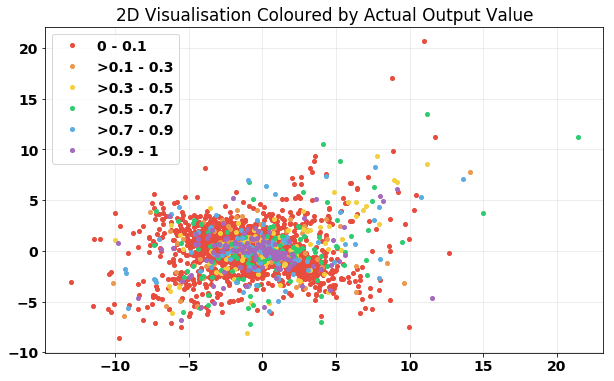
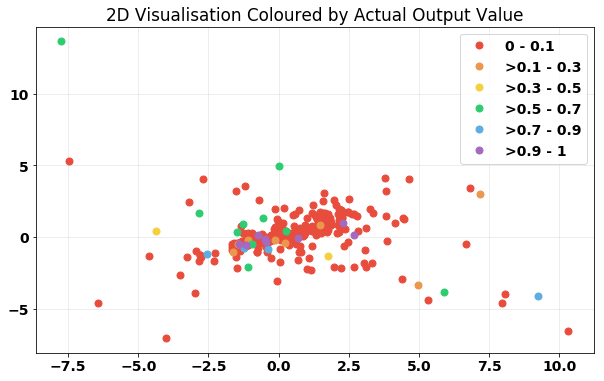
New Code, New Pictures
number of visualised data points = 400

diff --git a/sandbox/champ/visualise/reflect_data.py b/sandbox/champ/visualise/reflect_data.py
@@ -83,9 +83,43 @@ def split_train_test(x,y,tr_nrows):
     ytr = y[0:tr_nrows]
     xtr = x[0:tr_nrows]
 
-    # get the test set
+    # get all of the test set
     yts = y[tr_nrows:all_nrows]
     xts = x[tr_nrows:all_nrows] 
+    
+    return xtr,ytr,xts,yts
+
+## =============================================================================
+## put data into variables Part 2
+## =============================================================================
+    
+# select only some part of testset
+def split_train_testcut(x,y,tr_nrows,n_point):
+    
+    # get the train set
+    ytr = y[0:tr_nrows]
+    xtr = x[0:tr_nrows]
+
+    # get some of the test set
+    yts = y[tr_nrows:tr_nrows+n_point]
+    xts = x[tr_nrows:tr_nrows+n_point] 
+    
+    return xtr,ytr,xts,yts
+
+
+# select only some part of testset
+def split_train_testcutrand(x,y,tr_nrows,n_point):
+        
+    rnd_num = np.random.randint(tr_nrows,all_nrows,n_point)
+    rnd_num = np.ndarray.tolist(rnd_num)
+    
+    # get the train set
+    ytr = y[0:tr_nrows]
+    xtr = x[0:tr_nrows]
+
+    # get some of the test set
+    yts = y.loc[rnd_num]
+    xts = x.loc[rnd_num]
     
     return xtr,ytr,xts,yts
 
@@ -134,6 +168,9 @@ def create_lgbm_model(x_train, y_train):
 # Main Program
 # =============================================================================
 
+# Fixing random state for reproducibility
+np.random.seed(123)
+
 n_output = 24
 
 num_data = read_train_Spre_data()
@@ -150,8 +187,20 @@ all_nrows = len(x)
 tr_percent = 0.9
 tr_nrows = round(all_nrows*tr_percent) - 1
     
+# set number rows for the rest of the dataset
+test_nrows = all_nrows - tr_nrows 
 
-xtr,ytr,xts,yts = split_train_test(x,y,tr_nrows)
+# set number of points to be visualized in the graph 
+n_point = 400
+n_pt = n_point - 1
+
+# =============================================================================
+# # split the data into training set and test set 
+# =============================================================================
+
+#xtr,ytr,xts,yts = split_train_test(x,y,tr_nrows)
+#xtr,ytr,xts,yts = split_train_testcut(x,y,tr_nrows,n_point)
+xtr,ytr,xts,yts = split_train_testcutrand(x,y,tr_nrows,n_point)
 
 ## =============================================================================
 
@@ -180,11 +229,14 @@ clf = create_lgbm_model(xtr,ytr_sel)
 #======Prediction
 yhts_sel = clf.predict(xts)
 
+#======Actual output
+yts_sel = yts.iloc[:,23]
+
 # transform the result to DataFrame
 yhts_sel = pd.DataFrame(yhts_sel)
 
 ## =============================================================================
-## Plot graph
+## Setting to plot graph
 ## =============================================================================
 # bigger font size
 font = {'family' : 'normal',
@@ -193,12 +245,6 @@ font = {'family' : 'normal',
 
 plt.rc('font', **font)
 
-
-# set number of points in the graph 
-#n_point = 1000 
-n_point = all_nrows - tr_nrows 
-n_pt = n_point - 1
-
 ttt = np.arange(0, 1.2, 0.1)
 
 ## =============================================================================
@@ -206,7 +252,7 @@ ttt = np.arange(0, 1.2, 0.1)
 ## =============================================================================
 
 #plt.figure(1)
-#plt.scatter(yts.loc[tr_nrows:tr_nrows+n_pt,123], yhts_sel)
+#plt.scatter(yts_sel, yhts_sel)
 #plt.plot(ttt, ttt, color='green')
 #plt.show()
 
@@ -218,7 +264,7 @@ colors = np.random.rand(n_point)
 
 plt.figure(2)
 fig, ax = plt.subplots(figsize=(10, 6))
-plt.scatter(yts.loc[tr_nrows:tr_nrows+n_pt,123], yhts_sel
+plt.scatter(yts_sel, yhts_sel
             , c=colors, alpha=0.5)
 plt.plot(ttt, ttt, color='green')
 
@@ -316,10 +362,10 @@ thrh_val = [0.1,0.3,0.5,0.7,0.9]
 for i in range(n_point):
     
     ### actual output value
-    val_at = yts.loc[tr_nrows+i,123]
+    val_at = float(yts_sel.iloc[i])
     
     ### predicted output value
-    val_pd = float(yhts_sel.loc[i,:])
+    val_pd = float(yhts_sel.iloc[i])
     
     #cl_val =  val_at  # simple style
     
@@ -342,7 +388,7 @@ colors_pd = np.asarray(colors_pd)
 
 plt.figure(3)
 fig, ax = plt.subplots(figsize=(10, 6))
-plt.scatter(yts.loc[tr_nrows:tr_nrows+n_pt,123], yhts_sel
+plt.scatter(yts_sel, yhts_sel
             , c=colors, alpha=0.5)
 plt.plot(ttt, ttt, color='green')
 
@@ -371,6 +417,7 @@ vecdata = xts
 docvec_data = vecdata - vecdata.mean()
 
 similarities = 1 - cosine_similarity(docvec_data)
+#similarities = euclidean_distances(docvec_data)
 
 # Multidimensional Scaling for Doc2Vec data
 seed = np.random.RandomState(seed=3)
@@ -431,12 +478,13 @@ groups = df.groupby('label')
 # =============================================================================
 # Visualise PCA vectors in 2D scatter plot
 # =============================================================================
+marker_size = 7
 
 plt.figure(5)
 fig, ax = plt.subplots(figsize=(10, 6))
 for indx, group in groups:
     ax.plot( group.x, group.y
-            , marker='o', linestyle='',ms=4 
+            , marker='o', linestyle='',ms=marker_size 
             , color=col_opt_val[indx]
             , label=opt_rng[indx]
             )
@@ -473,7 +521,7 @@ plt.figure(6)
 fig, ax = plt.subplots(figsize=(10, 6))
 for indx, group in groups:
     ax.plot( group.x, group.y
-            , marker='o', linestyle='',ms=4 
+            , marker='o', linestyle='',ms=marker_size 
             , color=col_opt_val[indx]
             , label=opt_rng[indx]
             )
@@ -509,7 +557,7 @@ plt.figure(7)
 fig, ax = plt.subplots(figsize=(10, 6))
 for indx, group in groups:
     ax.plot( group.x, group.y
-            , marker='o', linestyle='',ms=4 
+            , marker='o', linestyle='',ms=marker_size 
             , color=col_opt_val[indx]
             , label=opt_rng[indx]
             )
@@ -546,7 +594,7 @@ plt.figure(8)
 fig, ax = plt.subplots(figsize=(10, 6))
 for indx, group in groups:
     ax.plot( group.x, group.y
-            , marker='o', linestyle='',ms=4 
+            , marker='o', linestyle='',ms=marker_size 
             , color=col_opt_val[indx]
             , label=opt_rng[indx]
             )
